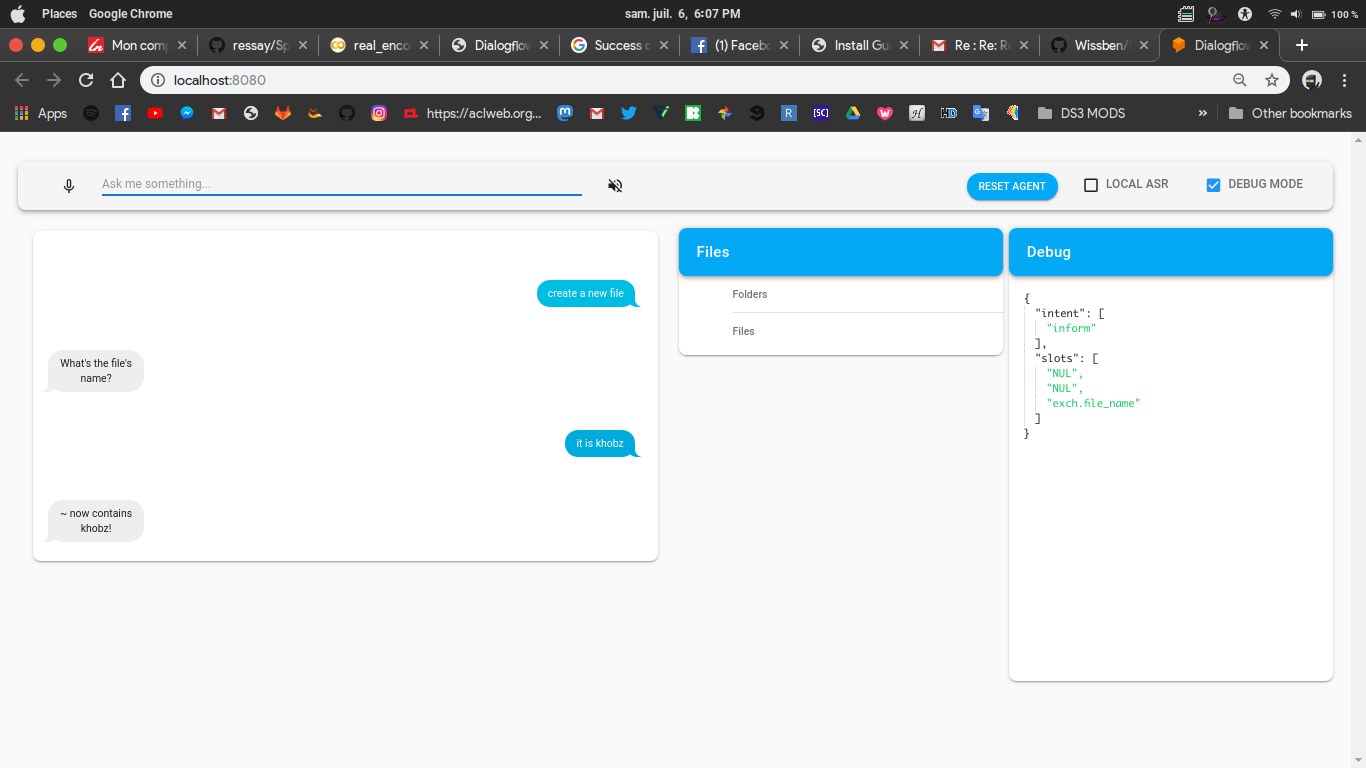
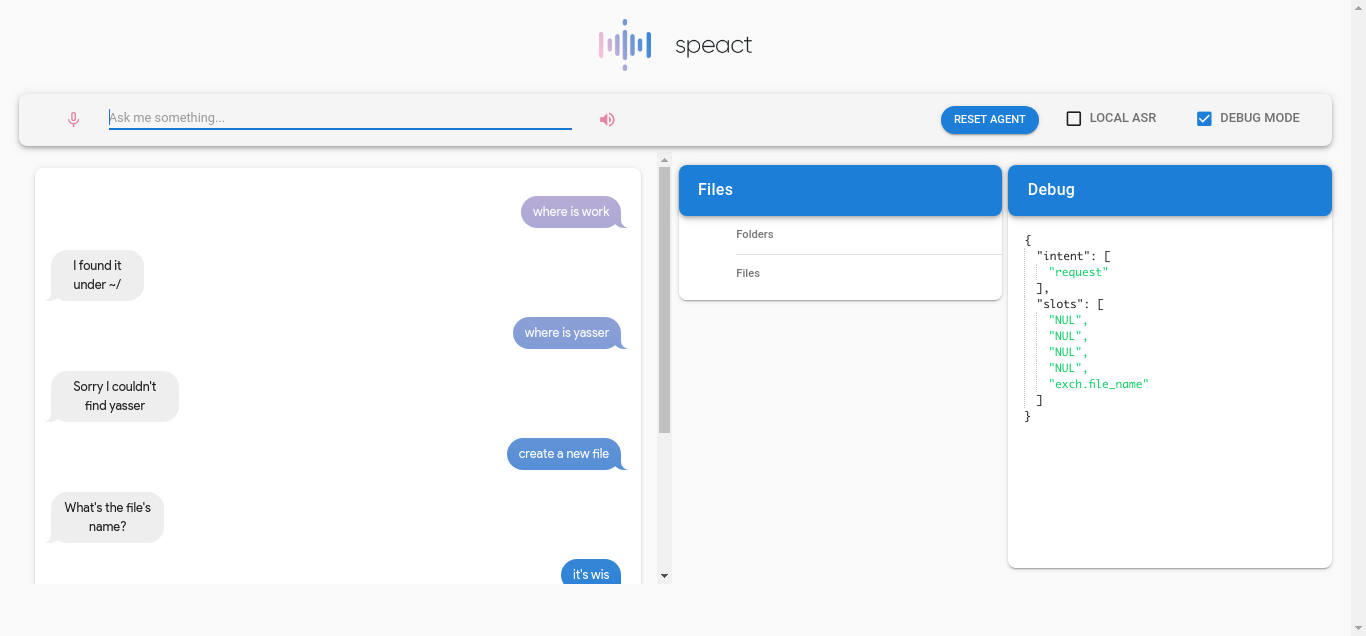
fixing readme

diff --git a/README.md b/README.md
@@ -2,6 +2,10 @@
 
 # Speact frontend
 
+<div style="text-align: center"> 
+  <img src="src/assets/speact-logo/speact-vert.png" width="40%" alt="Speact main app" />
+</div>
+
 ### A Free/Open source smart personal assistant.
 
 ------------------------------
